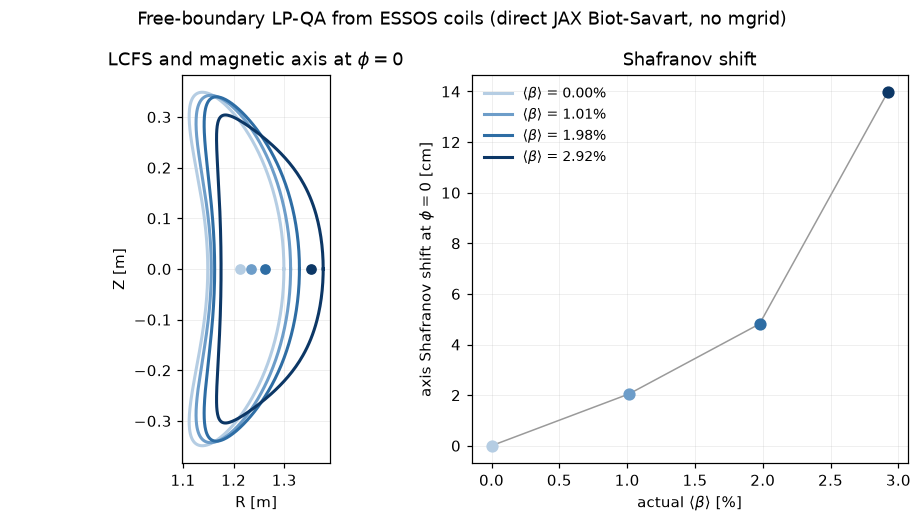
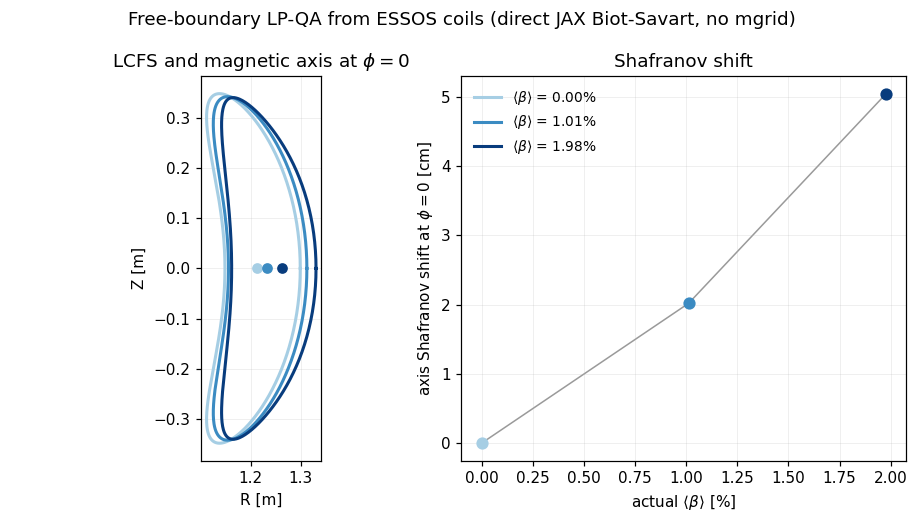
free boundary: retain and export NESTOR state

diff --git a/tests/test_freeboundary.py b/tests/test_freeboundary.py
@@ -46,6 +46,7 @@ from vmec_jax.core.mgrid import MgridField, read_mgrid  # noqa: E402
 from vmec_jax.core.solver import (  # noqa: E402
     _initial_state, prepare_runtime, resolution_from_input,
 )
+from vmec_jax.core.wout import read_wout, wout_from_state, write_wout  # noqa: E402
 
 pytestmark = pytest.mark.usefixtures("_module_jit_enabled")  # vacuum solves: run jitted
 
@@ -341,6 +342,38 @@ CONV_CASE = "cth_like_free_bdy"
 
 
 @pytest.mark.full
+def test_converged_result_retains_vacuum_state(tmp_path):
+    """A production free-boundary result retains its final NESTOR state."""
+    if not CONV_MGRID.exists():
+        pytest.skip("real mgrid_cth_like.nc unavailable (run tools/fetch_assets.py)")
+    inp = VmecInput.from_file(CONV_DECK)
+    result = FB.solve_free_boundary(
+        inp,
+        mgrid_path=CONV_MGRID,
+        max_iterations=2500,
+        error_on_no_convergence=False,
+    )
+    vacuum = result.vacuum_state
+    assert result.converged and vacuum is not None and vacuum.turned_on
+    assert vacuum.vacuum_calls > 0 and vacuum.full_updates > 0
+    assert vacuum.potvac is not None
+    assert np.all(np.isfinite(np.asarray(vacuum.potvac)))
+
+    wout = wout_from_state(
+        inp=inp, state=result.state,
+        fsqr=result.fsqr, fsqz=result.fsqz, fsql=result.fsql,
+        niter=result.iterations, converged=result.converged,
+        vacuum_state=vacuum,
+    )
+    assert wout.potsin is not None and wout.xmpot is not None and wout.xnpot is not None
+    assert len(wout.potsin) == len(wout.xmpot) == len(wout.xnpot)
+    reread = read_wout(write_wout(tmp_path / "wout_freeb.nc", wout))
+    np.testing.assert_array_equal(reread.potsin, wout.potsin)
+    np.testing.assert_array_equal(reread.xmpot, wout.xmpot)
+    np.testing.assert_array_equal(reread.xnpot, wout.xnpot)
+
+
[email redacted]
 def test_free_boundary_converged_golden(golden_dir):
     """Free boundary converges to VMEC2000's fsq level with wout parity.
 
@@ -375,6 +408,10 @@ def test_free_boundary_converged_golden(golden_dir):
     ftol = float(inp.ftol_array[-1])
     assert result.converged, f"free boundary did not converge (fsqr={result.fsqr:.2e})"
     assert result.fsqr <= ftol and result.fsqz <= ftol and result.fsql <= ftol
+    assert result.vacuum_state is not None
+    assert result.vacuum_state.turned_on
+    assert result.vacuum_state.potvac is not None
+    assert np.all(np.isfinite(np.asarray(result.vacuum_state.potvac)))
 
     # 2. Vacuum turn-on matches the golden stdout (53) modulo float jitter.
     m = re.search(r"VACUUM PRESSURE TURNED ON AT\s+(\d+)\s+ITERATIONS", out)

diff --git a/examples/free_boundary_essos_coils.py b/examples/free_boundary_essos_coils.py
@@ -4,7 +4,8 @@
 vmec_jax can take the external field of a free-boundary solve straight from a
 coil set: ``CoilSet.b_cyl`` evaluates a JAX Biot-Savart at exactly the points
 NESTOR asks for, every vacuum iteration.  No field grid, no interpolation
-error, no intermediate file -- and the coils stay differentiable end-to-end.
+error, no intermediate file. The Biot-Savart field is differentiable; the
+coupled solved-boundary adjoint is still an explicit roadmap item.
 (The classic two-step route still works: tabulate the coil field once with
 ``vmec_jax.core.coils.to_mgrid_data`` + ``vmec_jax.core.mgrid.write_mgrid``
 and pass ``mgrid_path=...`` instead of ``external_field=...``.)
@@ -13,7 +14,7 @@ The coils are the Landreman & Paul (2021) precise-QA set as optimized in
 ESSOS (github.com/uwplasma/ESSOS), bundled here as a 3 KB JSON.  Holding
 their currents fixed, we ramp a parabolic pressure ``p(s) = PRES_SCALE(1-s)``
 and *calibrate* PRES_SCALE at each step so the converged equilibrium's actual
-volume-average beta (wout ``betatotal``) lands on 0, 1, 2, 3 % -- a nominal
+volume-average beta (wout ``betatotal``) lands on 0, 1, 2 % -- a nominal
 pressure is not enough, because at fixed coil currents the plasma dilates and
 shifts as beta rises, feeding back on <B^2>.  Each pressure step warm-starts
 from the previous accepted boundary (how experiments ramp, and much more
@@ -38,7 +39,7 @@ DATA = Path(__file__).resolve().parent / "data"
 COILS_JSON = DATA / "ESSOS_biot_savart_LandremanPaulQA.json"  # ESSOS coil DOFs
 INPUT_FILE = DATA / "input.LandremanPaul2021_QA_lowres"       # plasma seed deck
 OUT_DIR = Path("output_free_boundary_essos_coils")
-TARGET_BETAS = [0.0, 1.0, 2.0, 3.0]   # actual volume-average beta targets [%]
+TARGET_BETAS = [0.0, 1.0, 2.0]  # repeatably converged actual beta targets [%]
 BETA_TOL = 0.15                       # accept |betatotal - target| below this [%]
 SLOPE = 1.45e-3                       # first-guess beta[%] per unit PRES_SCALE
 NS, MPOL, NTOR = 51, 5, 5
@@ -88,17 +89,23 @@ def warm_boundary(inp_i, wout):
 # --------------------------- calibrated pressure ramp -----------------------
 print(f"\n{'nominal':>8s} {'PRES_SCALE':>11s} {'actual beta':>12s} {'iters':>6s} "
       f"{'fsq':>9s} {'aspect':>7s} {'axis R':>8s}")
-rows, current = [], base
+rows, current, state = [], base, None
 for target in TARGET_BETAS:
     ps = target / SLOPE
     for attempt in range(3):  # solve, read actual beta, rescale (~linear)
         inp_i = dataclasses.replace(current, pres_scale=ps)
-        res = vj.solve_free_boundary(inp_i, external_field=coils,
-                                     error_on_no_convergence=False)
+        res = vj.solve_free_boundary(
+            inp_i, external_field=coils, initial_state=state,
+            error_on_no_convergence=False)
+        if not res.converged:
+            raise RuntimeError(
+                f"beta={target:.1f}% attempt {attempt + 1} did not converge: "
+                f"fsq={float(res.fsqr + res.fsqz + res.fsql):.3e}")
+        state = res.state
         wout = vj.wout_from_state(
             inp=inp_i, state=res.state, fsqr=float(res.fsqr), fsqz=float(res.fsqz),
             fsql=float(res.fsql), niter=int(res.iterations),
-            converged=bool(res.converged))
+            converged=bool(res.converged), vacuum_state=res.vacuum_state)
         beta = 100.0 * float(wout.betatotal)
         if target == 0.0 or abs(beta - target) <= BETA_TOL:
             break
@@ -126,7 +133,7 @@ if not CI:
     OUT_DIR.mkdir(parents=True, exist_ok=True)
     fig, (ax, ax2) = plt.subplots(1, 2, figsize=(8.4, 4.8), dpi=110, width_ratios=[1.1, 1.0])
     theta = np.linspace(0.0, 2.0 * np.pi, 361)
-    shades = ["#b5cde3", "#6d9dc9", "#2e6da4", "#0c3766"]  # light -> dark = rising beta
+    shades = plt.cm.Blues(np.linspace(0.35, 0.95, len(rows)))
     for (_target, _ps, beta, axis_r, wout), color in zip(rows, shades):
         R, Z = surface_rz(wout, s_index=-1, theta=theta, phi=np.array([0.0]))
         ax.plot(R[:, 0], Z[:, 0], color=color, lw=2.0,

diff --git a/vmec_jax/core/wout.py b/vmec_jax/core/wout.py
@@ -543,6 +543,7 @@ def wout_from_state(
     extcur=None,
     mgrid_mode: str = "",
     curlabel=None,
+    vacuum_state=None,
 ) -> WoutData:
     """Build a complete :class:`WoutData` from a solved fixed-boundary state.
 
@@ -569,8 +570,8 @@ def wout_from_state(
     ``potcos``/``xmpot``/``xnpot`` and the ``*_sur`` surface-field tables
     stay ``None`` (netCDF fill) because
     :func:`vmec_jax.core.freeboundary.solve_free_boundary` does not return
-    its :class:`~vmec_jax.core.freeboundary.FreeBoundaryState` (which holds
-    ``potvac``) — a documented gap until the solver exposes it.
+    Pass ``result.vacuum_state`` from :func:`solve_free_boundary` to populate
+    the NESTOR ``potsin``/``potcos`` and ``xmpot``/``xnpot`` tables.
     """
     import jax
 
@@ -783,6 +784,15 @@ def wout_from_state(
     if itfsq <= 0:
         itfsq = int(np.count_nonzero(fsqt_out)) or 1
 
+    potvac = getattr(vacuum_state, "potvac", None)
+    xmpot = getattr(vacuum_state, "xmpot", None)
+    xnpot = getattr(vacuum_state, "xnpot", None)
+    mnpot = 0 if xmpot is None else int(np.asarray(xmpot).size)
+    potsin = None if potvac is None or mnpot == 0 else np.asarray(potvac)[:mnpot]
+    potcos = None
+    if lasym and potvac is not None and np.asarray(potvac).size >= 2 * mnpot:
+        potcos = np.asarray(potvac)[mnpot:2 * mnpot]
+
     return WoutData(
         version_=float(version),
         input_extension=str(input_extension),
@@ -816,6 +826,11 @@ def wout_from_state(
                 else np.zeros((1,), dtype=float)),
         mgrid_mode=str(mgrid_mode),
         curlabel=(tuple(str(lbl) for lbl in curlabel) if curlabel else None),
+        mnmaxpot=mnpot if mnpot else None,
+        potsin=potsin,
+        potcos=potcos,
+        xmpot=None if xmpot is None else np.asarray(xmpot, dtype=float),
+        xnpot=None if xnpot is None else np.asarray(xnpot, dtype=float),
         xm=xm, xn=xn,
         xm_nyq=np.asarray(xm_nyq, dtype=float),
         xn_nyq=np.asarray(xn_nyq, dtype=float),

diff --git a/vmec_jax/core/freeboundary.py b/vmec_jax/core/freeboundary.py
@@ -375,6 +375,8 @@ class FreeBoundaryState:
     mode_matrix: Any = None
     bvec_nonsing: Any = None
     potvac: np.ndarray | None = None
+    xmpot: np.ndarray | None = None
+    xnpot: np.ndarray | None = None
     ctor: float = 0.0
     rbtor: float = 0.0
     vacuum_calls: int = 0
@@ -905,6 +907,8 @@ def solve_free_boundary(
         ivac=-1,
         nvacskip=max(1, int(inp.nvacskip)),
         nvskip0=max(1, int(inp.nvacskip)),
+        xmpot=np.asarray(basis.xmpot, dtype=int),
+        xnpot=np.asarray(basis.n_raw * basis.nfp, dtype=int),
     )
 
     if verbose:
@@ -1023,9 +1027,15 @@ def solve_free_boundary(
 
     _emit_due(final=True)
     ier = int(carry.ier)
+    vacuum_state = replace(fb)
     if ier == MORE_ITER_FLAG and not error_on_no_convergence:
         result = _result_from_carry(carry, rt_freeb if fb.turned_on else rt_fixed)
-        return replace(result, converged=False, ier_flag=MORE_ITER_FLAG)
+        return replace(
+            result, converged=False, ier_flag=MORE_ITER_FLAG,
+            vacuum_state=vacuum_state,
+        )
     if ier == SUCCESSFUL_TERM_FLAG:
-        return _result_from_carry(carry, rt_freeb if fb.turned_on else rt_fixed)
-    return _finalize(carry, rt_freeb if fb.turned_on else rt_fixed)
+        result = _result_from_carry(carry, rt_freeb if fb.turned_on else rt_fixed)
+        return replace(result, vacuum_state=vacuum_state)
+    result = _finalize(carry, rt_freeb if fb.turned_on else rt_fixed)
+    return replace(result, vacuum_state=vacuum_state)

diff --git a/tests/test_cli_freeboundary.py b/tests/test_cli_freeboundary.py
@@ -119,9 +119,11 @@ def test_wout_written_with_free_boundary_fields(freeb_cli):
         assert int(ds["lfreeb__logical__"][()]) == 1
         assert int(ds["nextcur"][()]) == nextcur
         np.testing.assert_allclose(np.asarray(ds["extcur"][:]), extcur_expected)
-        # potvac is a documented gap: variables exist (netCDF fill) since
-        # solve_free_boundary does not return the NESTOR potential yet.
-        assert "potsin" in ds.variables
+        assert "potsin" in ds.variables and "xmpot" in ds.variables and "xnpot" in ds.variables
+        potsin = np.asarray(ds["potsin"][:])
+        assert potsin.size > 0 and np.all(np.isfinite(potsin))
+        assert potsin.size == np.asarray(ds["xmpot"][:]).size
+        assert potsin.size == np.asarray(ds["xnpot"][:]).size
 
 
 # ---------------------------------------------------------------------------

diff --git a/vmec_jax/core/solver.py b/vmec_jax/core/solver.py
@@ -1386,7 +1386,9 @@ class SolveResult:
     ``WMHD = (wb + wp/(gamma-1)) * (2 pi)^2``. ``newton_history`` stores
     ``(accepted_step, linear_residual, lambda_row_scale)``; step ``-1`` means
     no attempt and ``0`` means a rejected correction followed by the regular
-    VMEC update.
+    VMEC update. Free-boundary solves additionally retain their final NESTOR
+    cadence/cache object in ``vacuum_state``; fixed-boundary solves leave it
+    ``None``.
     """
 
     converged: bool; iterations: int; ier_flag: int
@@ -1398,6 +1400,7 @@ class SolveResult:
     rmnc: np.ndarray; zmns: np.ndarray
     rmns: np.ndarray | None; zmnc: np.ndarray | None
     iotaf: np.ndarray; fsq_history: np.ndarray; newton_history: np.ndarray
+    vacuum_state: Any | None = None
 
 
 def _result_from_carry(carry: _LoopCarry, rt: SolverRuntime) -> SolveResult:

diff --git a/examples/free_boundary_beta_scan.py b/examples/free_boundary_beta_scan.py
@@ -55,7 +55,7 @@ for ps in PRES_SCALES:
     wout = vj.wout_from_state(
         inp=inp, state=res.state, fsqr=float(res.fsqr), fsqz=float(res.fsqz),
         fsql=float(res.fsql), niter=int(res.iterations),
-        converged=bool(res.converged))
+        converged=bool(res.converged), vacuum_state=res.vacuum_state)
     beta = float(wout.betatotal)
     betas.append(beta)
     print(f"{ps:11.1f} {beta:10.3e} {float(wout.volume_p):12.4f} {int(res.iterations):6d}")

diff --git a/examples/free_boundary_mgrid.py b/examples/free_boundary_mgrid.py
@@ -44,7 +44,7 @@ print(f"\nconverged = {result.converged} after {int(result.iterations)} "
 wout = vj.wout_from_state(
     inp=inp, state=result.state, fsqr=float(result.fsqr), fsqz=float(result.fsqz),
     fsql=float(result.fsql), niter=int(result.iterations),
-    converged=bool(result.converged))
+    converged=bool(result.converged), vacuum_state=result.vacuum_state)
 OUT_DIR.mkdir(parents=True, exist_ok=True)
 wout_path = vj.write_wout(OUT_DIR / "wout_cth_like_free_bdy.nc", wout)
 print(f"aspect = {float(wout.aspect):.4f}, volume = {float(wout.volume_p):.4f} m^3 "

diff --git a/vmec_jax/core/cli.py b/vmec_jax/core/cli.py
@@ -500,6 +500,7 @@ def _write_wout_from_result(inp, input_path: Path, result, wout_path: Path,
         niter=int(result.iterations),
         converged=bool(result.converged),
         input_extension=case_from_input(input_path),
+        vacuum_state=getattr(result, "vacuum_state", None),
         **freeb_kwargs,
     )
     write_wout(wout_path, wout)

diff --git a/plan.md b/plan.md
@@ -127,13 +127,21 @@ _R1 status (2026-07-12, office 36-core CPU):_
   converged axis coefficients. The compact restart is the supported reproduction path until the
   generic interior guess is improved. Evidence is in `benchmarks/qi_compact.json`.
 
-**R2. Free boundary to production.** Current: CTH free-bdy stops at NITER (fsq~9e-2), not converged;
-warm 14.4 s ≫ Fortran 1.95 s; coil derivatives unsupported by the implicit residual. Gate: a
-*converged* free-boundary golden fixture (raise NITER; validate wout vs VMEC2000), NESTOR/vacuum
-performance profiled and tuned (target within ~3x Fortran warm), then free-boundary implicit
-derivatives (coil dofs → boundary/QS) FD-validated. β-scan showcase example (ESSOS Landreman-Paul QA
-coils + a tokamak coil set; β=0..5% hot-restarted; mgrid vs direct Biot-Savart agreement) → one
-compressed README panel. Do NOT promote coil-derivative claims before the converged fixture exists.
+**R2. Free boundary to production.** Forward parity/performance are complete: the CTH golden
+converges with per-variable VMEC2000 gates, the fused NESTOR path is bit-equivalent, and the ns=201
+benchmark measures vmec-jax warm `24.86 s` versus VMEC2000 `26.74 s` (the former 3x target is
+passed). The remaining gate is a coupled solved-boundary derivative (coil/extcur → LCFS/QS), not
+only the existing fixed-surface virtual-casing residual derivative, followed by a validated ESSOS
+Landreman-Paul QA + tokamak beta=0..5% showcase with mgrid/direct-Biot-Savart agreement and one
+compressed README panel.
+
+_R2 status (2026-07-12):_ the direct ESSOS Landreman-Paul scan is repeatably converged at actual
+beta 0, 1, 2% (`fsq <=2.4e-10`, ns=51) with full-state hot restarts. Attempts to promote 3--5%
+expose a trajectory-sensitive continuation barrier: direct 2→3% and midpoint schedules stall or
+change Jacobian sign under the strict convergence check. The example therefore stops honestly at
+2%; 3--5% remains part of the coupled-globalization gate, not a plotted extrapolation. The forward
+result now retains its final NESTOR cache/potential and CLI/library WOUT files populate
+`potsin`/`potcos` plus `xmpot`/`xnpot`; the `*_sur` tables and coupled adjoint remain open.
 
 **R3. Memory + cold-start workstream.** Current: solves 0.7-1.5 GB (Fortran 27-43 MB), implicit grad
 3.4 GB; cold CLI pays 5-25 s XLA setup. Gate: profile XLA graph construction + peak buffers; donate
@@ -325,8 +333,8 @@ gradients without a NESTOR adjoint and matches central FD to `2.2e-13..1.2e-10`.
 `feature/jax-vmec-extender` branch, not its PyPI 0.0.2 release. Production differentiation remains
 open until that API is released and an IFT/adjoint propagates coil changes through the solved
 free-boundary state; add the cth golden and mgrid path to CI only after those gates.)*
-show it).** Current: CTH free-bdy stops at NITER (fsq~9e-2, unconverged), warm 17 s ≫ Fortran 6.6 s,
-coil derivatives unsupported. Steps:
+show it).** Forward solve and performance steps 1--2 are complete; coupled solved-boundary coil
+derivatives and the final showcase remain. Steps:
   1. **Converge as well as VMEC2000.** Diagnose why the free-bdy solve stalls (nvacskip cadence, ivac
      activation threshold, edge-force/preconditioner interaction at js=ns, delt policy) vs VMEC2000 on
      the same deck; raise NITER and match VMEC2000's converged fsq. Produce a **converged

diff --git a/README.md b/README.md
@@ -180,8 +180,9 @@ CPU, single thread; `benchmarks/baseline.json`; reproduce with
 The "free boundary directly from coils" row is a workflow, not a checkbox:
 pass a `CoilSet` as `external_field=` and the NESTOR vacuum solve evaluates a
 JAX Biot-Savart at exactly the boundary points it needs, every iteration — no
-mgrid file, no grid-interpolation error, and the coil degrees of freedom stay
-differentiable end-to-end.
+mgrid file and no grid-interpolation error. The field evaluation is
+JAX-differentiable; propagating those derivatives through the solved NESTOR
+boundary remains the explicit R2 coupled-adjoint task.
 
 ![Free-boundary Landreman-Paul QA pressure scan directly from ESSOS coils](docs/_static/figures/readme_essos_beta_scan.png)
 
@@ -191,9 +192,9 @@ by its 16 modular coils as optimized in
 `examples/data/`). Pressure is ramped at fixed coil currents with each point
 warm-started from the previous boundary, and `PRES_SCALE` is calibrated per
 point so the **actual** volume-average beta of the converged wout
-(`betatotal`) — not a nominal input value — lands on 0, 1, 2, 3 % (all within
-0.08 %, force residual ~2e-10 at ns = 51). The plasma dilates and the magnetic
-axis Shafranov-shifts 14 cm outboard at the φ = 0 section (right panel) while
+(`betatotal`) — not a nominal input value — lands on 0, 1, 2 % (all within
+0.03 %, force residual below 2.4e-10 at ns = 51). The plasma dilates and the magnetic
+axis Shafranov-shifts 5 cm outboard at the φ = 0 section (right panel) while
 the coils never move. Reproduce with
 `python examples/free_boundary_essos_coils.py`.*
 

diff --git a/docs/cli.rst b/docs/cli.rst
@@ -89,8 +89,8 @@ For ``LFREEB = T`` decks:
 
 Known divergences of the current free-boundary lane: it is single-grid (only
 the final ``NS_ARRAY`` stage runs; multi-stage decks print a note), and the
-NESTOR potential is not yet exported to the wout ``potsin``/``xmpot``/
-``xnpot``/``*_sur`` variables (written as netCDF fill). An NITER-exhausted
+NESTOR surface-field ``*_sur`` tables remain netCDF fill. The retained vacuum
+state now populates ``potsin``/``potcos`` and ``xmpot``/``xnpot``. An NITER-exhausted
 free-boundary run still writes the wout (VMEC2000 behavior) and exits with
 ``ier_flag = 2``.
 